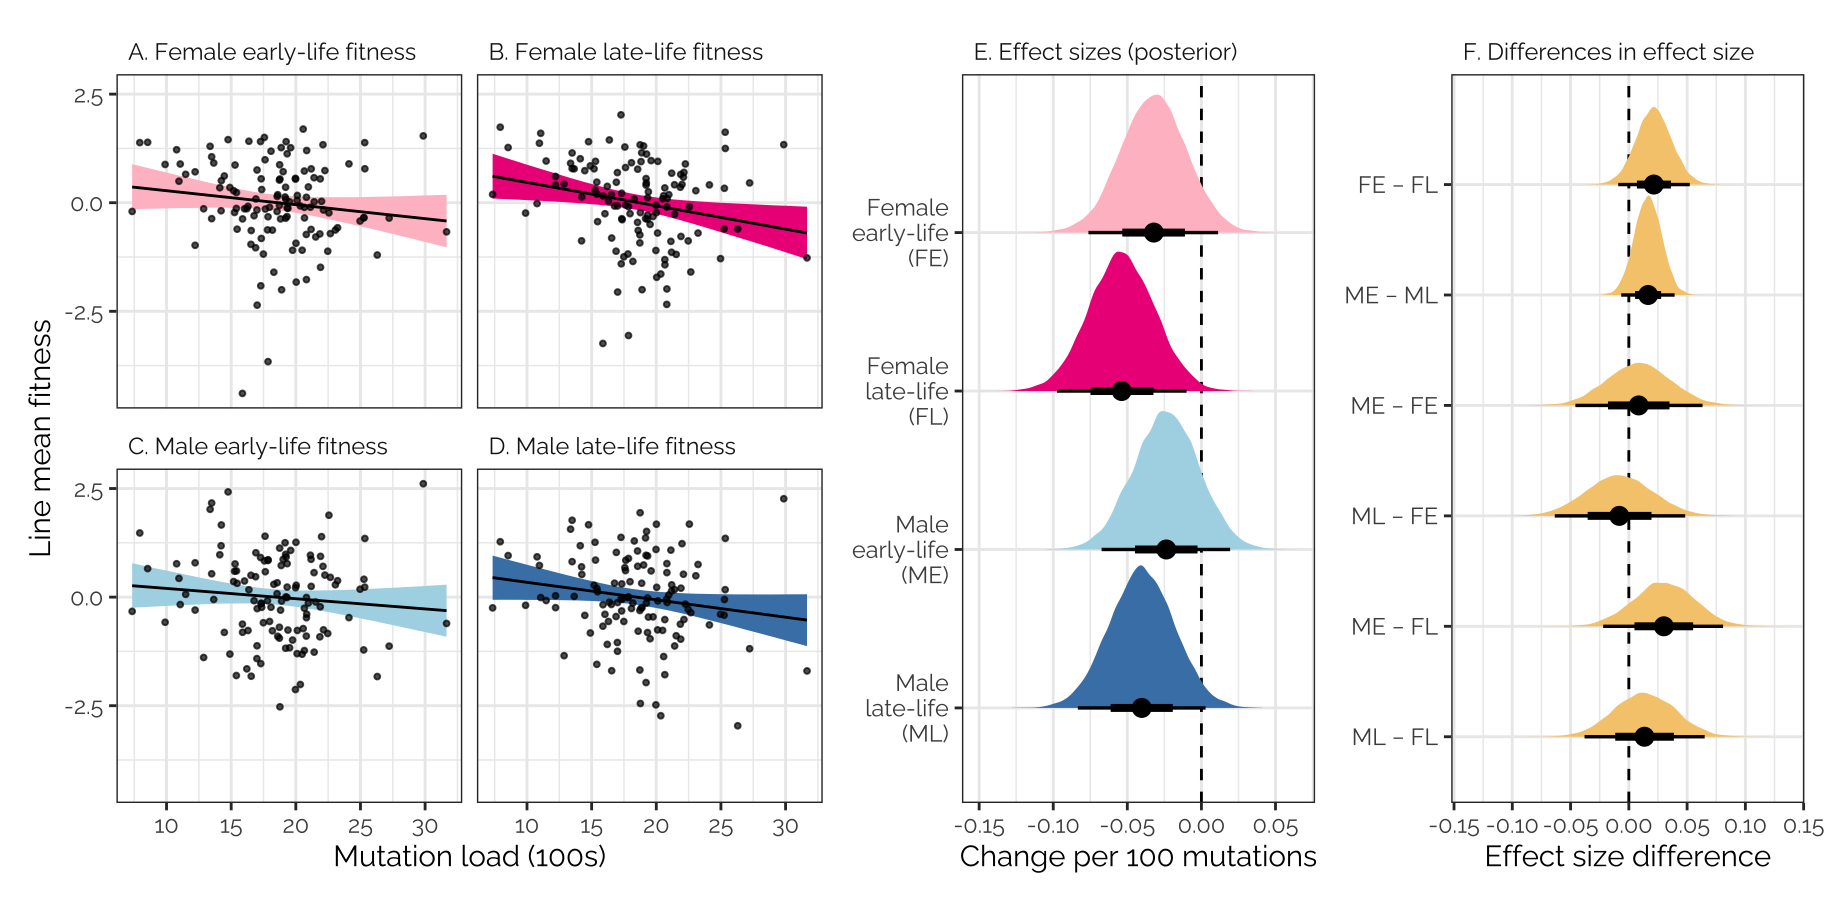
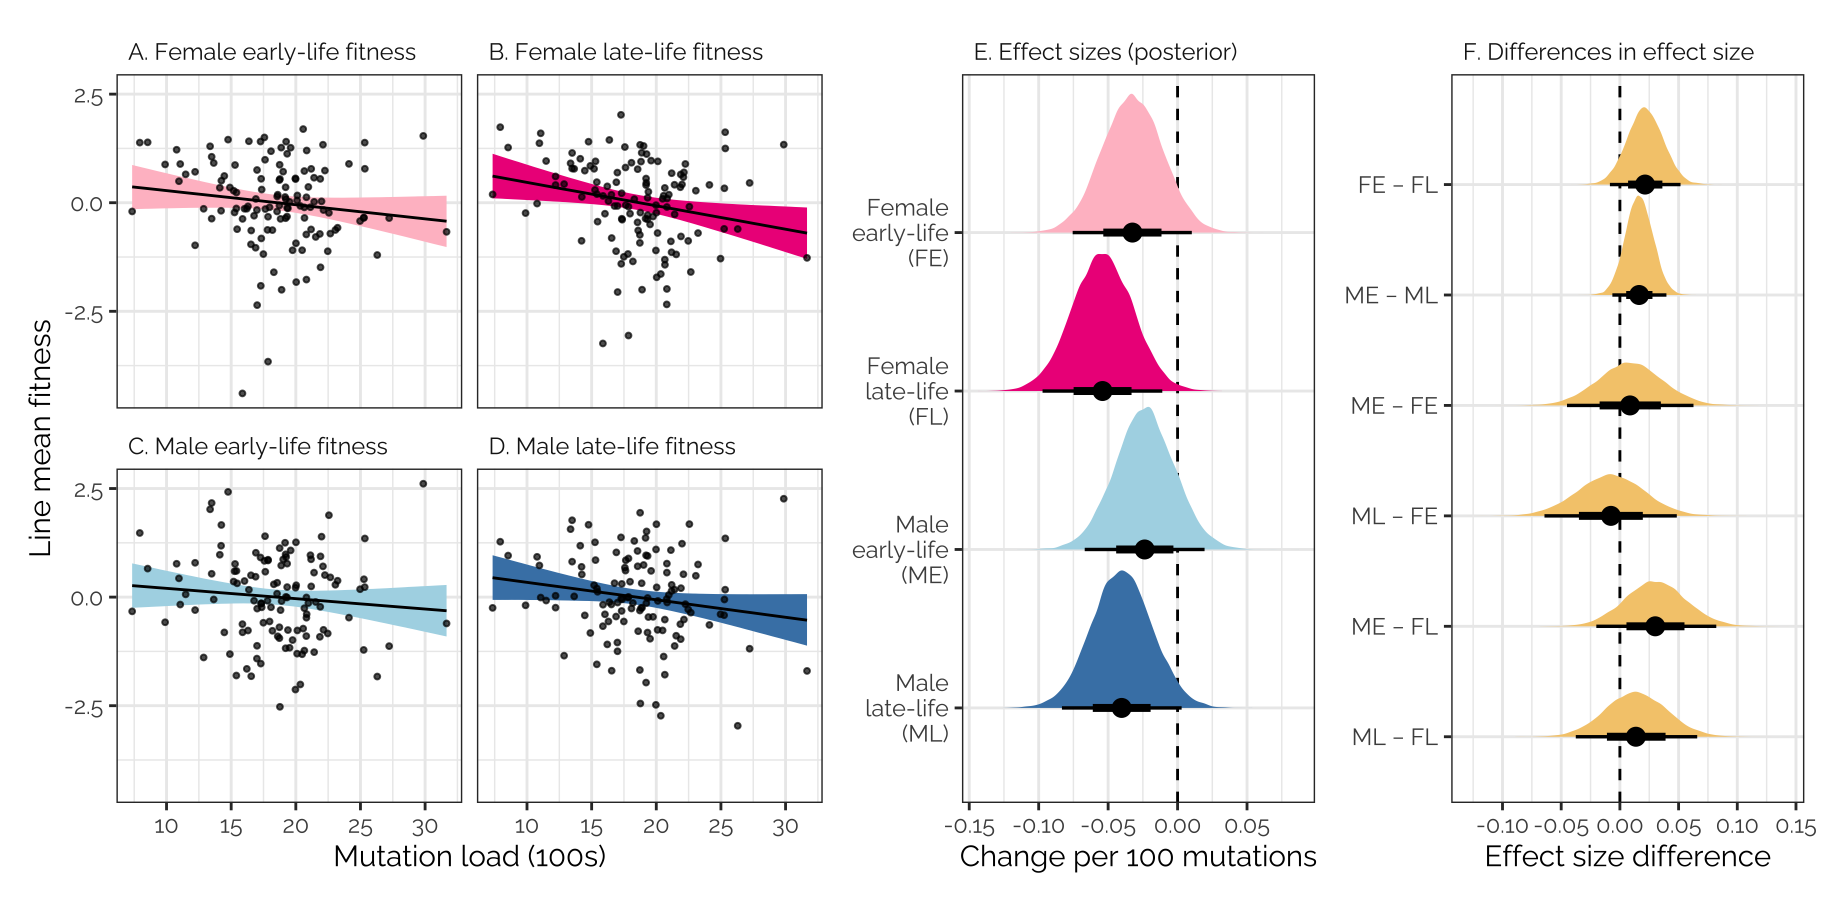
Build site.

Changed region(s): [[0.5286, 0.0931, 0.7152, 0.9313], [0.7774, 0.0931, 0.9951, 0.9313]]

diff --git a/docs/plot_models_variant_effects.html b/docs/plot_models_variant_effects.html
@@ -528,15 +528,15 @@ project makes it easier to run your code on other machines.</p>
 <div class="panel panel-default">
 <div class="panel-heading">
 <p class="panel-title">
-<a data-toggle="collapse" data-parent="#workflowr-checks" href="#strongRepositoryversionstrongahrefhttpsgithubcomlukeholmanfitnessGWAStreed5b25664fed4aad16f9da78d07ee164385985220targetblankd5b2566a">
+<a data-toggle="collapse" data-parent="#workflowr-checks" href="#strongRepositoryversionstrongahrefhttpsgithubcomlukeholmanfitnessGWAStree2535d6c15bcddaff163c05ac6c436d57d915265ftargetblank2535d6ca">
 <span class="glyphicon glyphicon-ok text-success"
 aria-hidden="true"></span> <strong>Repository version:</strong>
-<a href="https://github.com/lukeholman/fitnessGWAS/tree/d5b25664fed4aad16f9da78d07ee164385985220" target="_blank">d5b2566</a>
+<a href="https://github.com/lukeholman/fitnessGWAS/tree/2535d6c15bcddaff163c05ac6c436d57d915265f" target="_blank">2535d6c</a>
 </a>
 </p>
 </div>
 <div
[2 lines of base64/hex data omitted]
 class="panel-collapse collapse">
 <div class="panel-body">
 <p>
@@ -546,7 +546,7 @@ reproducibility.
 </p>
 <p>
 The results in this page were generated with repository version
-<a href="https://github.com/lukeholman/fitnessGWAS/tree/d5b25664fed4aad16f9da78d07ee164385985220" target="_blank">d5b2566</a>.
+<a href="https://github.com/lukeholman/fitnessGWAS/tree/2535d6c15bcddaff163c05ac6c436d57d915265f" target="_blank">2535d6c</a>.
 See the <em>Past versions</em> tab to see a history of the changes made
 to the R Markdown and HTML files.
 </p>
@@ -590,6 +590,7 @@ Untracked files:
     Untracked:  old_analyses/quantitative_genetics_OLD_brms.Rmd
 
 Unstaged changes:
+    Deleted:    figures/fig1.pdf
     Modified:   figures/fig3_boyle_plot.pdf
     Modified:   figures/fig4_mutation_load.pdf
     Modified:   figures/fig5_quartiles_plot.pdf
@@ -641,6 +642,40 @@ Message
 </tr>
 </thead>
 <tbody>
+<tr>
+<td>
+Rmd
+</td>
+<td>
+<a href="https://github.com/lukeholman/fitnessGWAS/blob/2535d6c15bcddaff163c05ac6c436d57d915265f/analysis/plot_models_variant_effects.Rmd" target="_blank">2535d6c</a>
+</td>
+<td>
+lukeholman
+</td>
+<td>
+2023-03-22
+</td>
+<td>
+wflow_publish("analysis/plot_models_variant_effects.Rmd")
+</td>
+</tr>
+<tr>
+<td>
+html
+</td>
+<td>
+<a href="https://rawcdn.githack.com/lukeholman/fitnessGWAS/442294c3ed93114bd89f047804f4ea47cb179937/docs/plot_models_variant_effects.html" target="_blank">442294c</a>
+</td>
+<td>
+lukeholman
+</td>
+<td>
+2023-03-22
+</td>
+<td>
+Build site.
+</td>
+</tr>
 <tr>
 <td>
 Rmd
@@ -2252,7 +2287,8 @@ grid.arrange(fig2_top, grid_arrange_shared_legend(p1, p2))
 dev.off()</code></pre>
 <pre><code>quartz_off_screen 
                 2 </code></pre>
-<p><img src="figures/fig2_SNPs_manhattan_plot.png" /></p>
+<pre class="r"><code>grid.arrange(fig2_top, grid_arrange_shared_legend(p1, p2))</code></pre>
+<p><img src="figure/plot_models_variant_effects.Rmd/manhattan-1.png" width="672" style="display: block; margin: auto;" /></p>
 </div>
 <div id="investigating-pleiotropy-and-polygenicity-of-fitness"
 class="section level2">
@@ -2325,6 +2361,43 @@ boyle_plot &lt;- bind_rows(p1_data, p2_data) %&gt;%
 
 boyle_plot</code></pre>
 <p><img src="figure/plot_models_variant_effects.Rmd/boyle_plot-1.png" width="672" style="display: block; margin: auto;" /></p>
+<p>
+<button type="button" class="btn btn-default btn-xs btn-workflowr btn-workflowr-fig" data-toggle="collapse" data-target="#fig-boyle_plot-1">
+Past versions of boyle_plot-1.png
+</button>
+</p>
+<div id="fig-boyle_plot-1" class="collapse">
+<div class="table-responsive">
+<table class="table table-condensed table-hover">
+<thead>
+<tr>
+<th>
+Version
+</th>
+<th>
+Author
+</th>
+<th>
+Date
+</th>
+</tr>
+</thead>
+<tbody>
+<tr>
+<td>
+<a href="https://github.com/lukeholman/fitnessGWAS/blob/442294c3ed93114bd89f047804f4ea47cb179937/docs/figure/plot_models_variant_effects.Rmd/boyle_plot-1.png" target="_blank">442294c</a>
+</td>
+<td>
+lukeholman
+</td>
+<td>
+2023-03-22
+</td>
+</tr>
+</tbody>
+</table>
+</div>
+</div>
 </div>
 <div id="correlations-between-mutation-load-and-fitness"
 class="section level2">
@@ -2500,6 +2573,17 @@ Date
 </tr>
 </thead>
 <tbody>
+<tr>
+<td>
+<a href="https://github.com/lukeholman/fitnessGWAS/blob/442294c3ed93114bd89f047804f4ea47cb179937/docs/figure/plot_models_variant_effects.Rmd/unnamed-chunk-10-1.png" target="_blank">442294c</a>
+</td>
+<td>
+lukeholman
+</td>
+<td>
+2023-03-22
+</td>
+</tr>
 <tr>
 <td>
 <a href="https://github.com/lukeholman/fitnessGWAS/blob/14a2316cebcb883f62cef9e6efbbee5b65810110/docs/figure/plot_models_variant_effects.Rmd/unnamed-chunk-10-1.png" target="_blank">14a2316</a>
@@ -2712,6 +2796,17 @@ Date
 <tbody>
 <tr>
 <td>
+<a href="https://github.com/lukeholman/fitnessGWAS/blob/442294c3ed93114bd89f047804f4ea47cb179937/docs/figure/plot_models_variant_effects.Rmd/unnamed-chunk-12-1.png" target="_blank">442294c</a>
+</td>
+<td>
+lukeholman
+</td>
+<td>
+2023-03-22
+</td>
+</tr>
+<tr>
+<td>
 <a href="https://github.com/lukeholman/fitnessGWAS/blob/f33d9d20f2c9be2c1db0b2918ab8fe8e96eb2113/docs/figure/plot_models_variant_effects.Rmd/unnamed-chunk-12-1.png" target="_blank">f33d9d2</a>
 </td>
 <td>
@@ -2869,7 +2964,7 @@ Female early-life (FE)
 -0.076
 </td>
 <td style="text-align:right;">
-0.011
+0.010
 </td>
 </tr>
 <tr>
@@ -2883,10 +2978,10 @@ Female late-life (FL)
 0.022
 </td>
 <td style="text-align:right;">
--0.098
+-0.097
 </td>
 <td style="text-align:right;">
--0.010
+-0.011
 </td>
 </tr>
 <tr>
@@ -2928,7 +3023,7 @@ Male late-life (ML)
 FE - FL
 </td>
 <td style="text-align:right;">
-0.021
+0.022
 </td>
 <td style="text-align:right;">
 0.015
@@ -2945,16 +3040,16 @@ FE - FL
 ME - ML
 </td>
 <td style="text-align:right;">
-0.017
+0.016
 </td>
 <td style="text-align:right;">
 0.012
 </td>
 <td style="text-align:right;">
--0.007
+-0.006
 </td>
 <td style="text-align:right;">
-0.039
+0.040
 </td>
 </tr>
 <tr>
@@ -2968,7 +3063,7 @@ ME - FE
 0.028
 </td>
 <td style="text-align:right;">
--0.046
+-0.045
 </td>
 <td style="text-align:right;">
 0.063
@@ -3002,10 +3097,10 @@ ME - FL
 0.026
 </td>
 <td style="text-align:right;">
--0.022
+-0.020
 </td>
 <td style="text-align:right;">
-0.081
+0.082
 </td>
 </tr>
 <tr>
@@ -3013,7 +3108,7 @@ ME - FL
 ML - FL
 </td>
 <td style="text-align:right;">
-0.013
+0.014
 </td>
 <td style="text-align:right;">
 0.026
@@ -3022,7 +3117,7 @@ ML - FL
 -0.038
 </td>
 <td style="text-align:right;">
-0.065
+0.066
 </td>
 </tr>
 </tbody>
@@ -3142,6 +3237,17 @@ Date
 </tr>
 </thead>
 <tbody>
+<tr>
+<td>
+<a href="https://github.com/lukeholman/fitnessGWAS/blob/442294c3ed93114bd89f047804f4ea47cb179937/docs/figure/plot_models_variant_effects.Rmd/unnamed-chunk-14-1.png" target="_blank">442294c</a>
+</td>
+<td>
+lukeholman
+</td>
+<td>
+2023-03-22
+</td>
+</tr>
 <tr>
 <td>
 <a href="https://github.com/lukeholman/fitnessGWAS/blob/1bb603c18144f3ad95844a63f1f0dedcab9e2d0b/docs/figure/plot_models_variant_effects.Rmd/unnamed-chunk-14-1.png" target="_blank">1bb603c</a>
@@ -3900,6 +4006,17 @@ Date
 </tr>
 </thead>
 <tbody>
+<tr>
+<td>
+<a href="https://github.com/lukeholman/fitnessGWAS/blob/442294c3ed93114bd89f047804f4ea47cb179937/docs/figure/plot_models_variant_effects.Rmd/unnamed-chunk-16-1.png" target="_blank">442294c</a>
+</td>
+<td>
+lukeholman
+</td>
+<td>
+2023-03-22
+</td>
+</tr>
 <tr>
 <td>
 <a href="https://github.com/lukeholman/fitnessGWAS/blob/e4f2f4f17ad066aea2499537ec7bd625b587cbdf/docs/figure/plot_models_variant_effects.Rmd/unnamed-chunk-16-1.png" target="_blank">e4f2f4f</a>
@@ -4723,6 +4840,17 @@ Date
 <tbody>
 <tr>
 <td>
+<a href="https://github.com/lukeholman/fitnessGWAS/blob/442294c3ed93114bd89f047804f4ea47cb179937/docs/figure/plot_models_variant_effects.Rmd/unnamed-chunk-19-1.png" target="_blank">442294c</a>
+</td>
+<td>
+lukeholman
+</td>
+<td>
+2023-03-22
+</td>
+</tr>
+<tr>
+<td>
 <a href="https://github.com/lukeholman/fitnessGWAS/blob/14a2316cebcb883f62cef9e6efbbee5b65810110/docs/figure/plot_models_variant_effects.Rmd/unnamed-chunk-19-1.png" target="_blank">14a2316</a>
 </td>
 <td>
@@ -5494,6 +5622,43 @@ focal_dat %&gt;%
         strip.background = element_blank(),
         strip.text = element_text(hjust = 0, family = &quot;Raleway&quot;, size = 12))</code></pre>
 <p><img src="figure/plot_models_variant_effects.Rmd/unnamed-chunk-23-1.png" width="1056" style="display: block; margin: auto;" /></p>
+<p>
+<button type="button" class="btn btn-default btn-xs btn-workflowr btn-workflowr-fig" data-toggle="collapse" data-target="#fig-unnamed-chunk-23-1">
+Past versions of unnamed-chunk-23-1.png
+</button>
+</p>
+<div id="fig-unnamed-chunk-23-1" class="collapse">
+<div class="table-responsive">
+<table class="table table-condensed table-hover">
+<thead>
+<tr>
+<th>
+Version
+</th>
+<th>
+Author
+</th>
+<th>
+Date
+</th>
+</tr>
+</thead>
+<tbody>
+<tr>
+<td>
+<a href="https://github.com/lukeholman/fitnessGWAS/blob/442294c3ed93114bd89f047804f4ea47cb179937/docs/figure/plot_models_variant_effects.Rmd/unnamed-chunk-23-1.png" target="_blank">442294c</a>
+</td>
+<td>
+lukeholman
+</td>
+<td>
+2023-03-22
+</td>
+</tr>
+</tbody>
+</table>
+</div>
+</div>
 </div>
 <div id="table-4" class="section level5">
 <h5>Table</h5>
